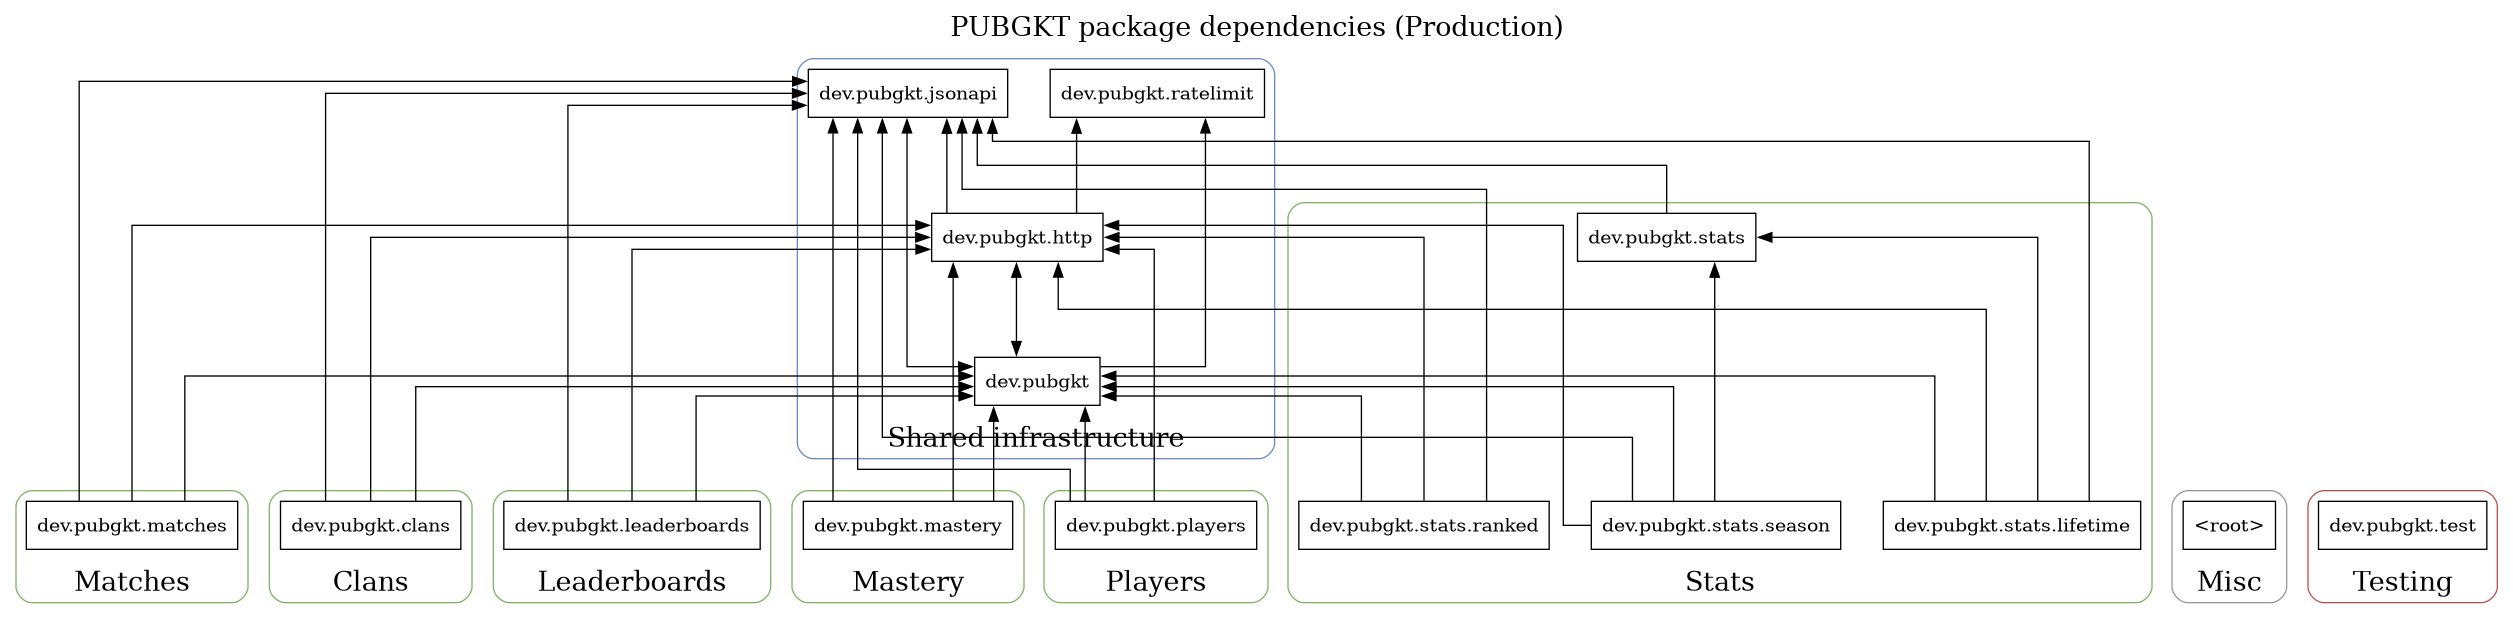
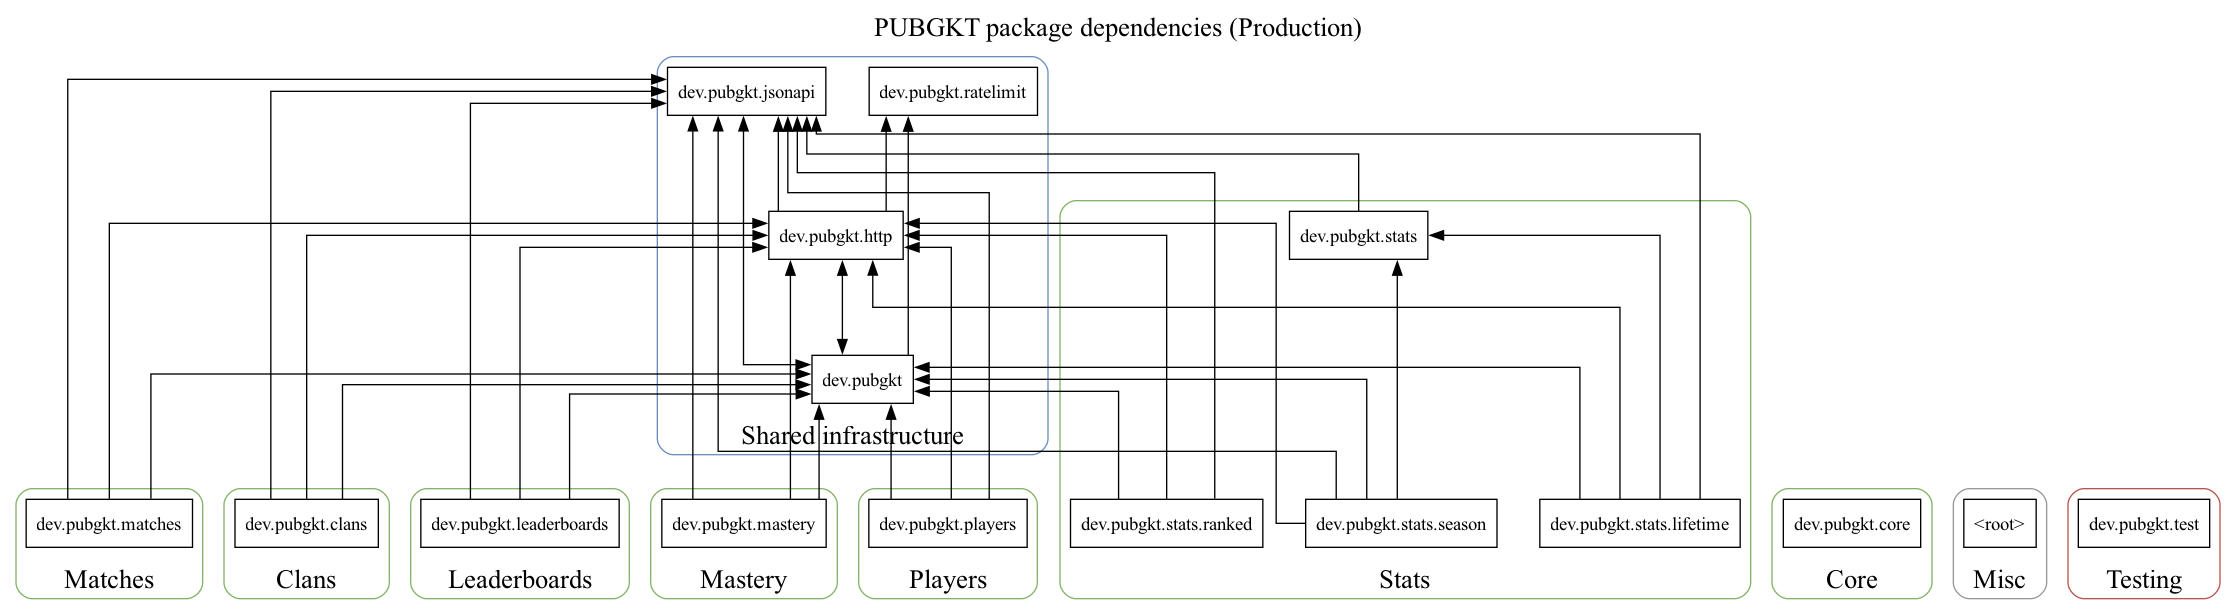
[skip ci] chore: Activates UnusedImport in detekt

diff --git a/stats/src/commonTest/kotlin/dev/pubgkt/stats/lifetime/GetLifetimeGameModeStatsTest.kt b/stats/src/commonTest/kotlin/dev/pubgkt/stats/lifetime/GetLifetimeGameModeStatsTest.kt
@@ -3,7 +3,6 @@ package dev.pubgkt.stats.lifetime
 import dev.pubgkt.GameMode
 import dev.pubgkt.PubgApi
 import dev.pubgkt.stats.FILTER_PLAYER_IDS
-import dev.pubgkt.stats.lifetime.getLifetimeStatsByGameModeAndPlayers
 import dev.pubgkt.test.lastRequest
 import dev.pubgkt.test.mockEngine
 import io.ktor.http.HttpMethod

diff --git a/stats/src/commonTest/kotlin/dev/pubgkt/stats/lifetime/GetLifetimePlayerStatsTest.kt b/stats/src/commonTest/kotlin/dev/pubgkt/stats/lifetime/GetLifetimePlayerStatsTest.kt
@@ -1,7 +1,6 @@
 package dev.pubgkt.stats.lifetime
 
 import dev.pubgkt.PubgApi
-import dev.pubgkt.stats.lifetime.getLifetimeStatsByAccountId
 import dev.pubgkt.test.lastRequest
 import dev.pubgkt.test.mockEngine
 import io.ktor.http.HttpMethod

diff --git a/stats/src/commonTest/kotlin/dev/pubgkt/stats/ranked/GetRankedStatsTest.kt b/stats/src/commonTest/kotlin/dev/pubgkt/stats/ranked/GetRankedStatsTest.kt
@@ -1,7 +1,6 @@
 package dev.pubgkt.stats.ranked
 
 import dev.pubgkt.PubgApi
-import dev.pubgkt.stats.ranked.getRankedStatsByAccountIdAndSeasonId
 import dev.pubgkt.test.lastRequest
 import dev.pubgkt.test.mockEngine
 import io.ktor.http.HttpMethod

diff --git a/stats/src/commonTest/kotlin/dev/pubgkt/stats/season/GetSeasonGameModeStatsTest.kt b/stats/src/commonTest/kotlin/dev/pubgkt/stats/season/GetSeasonGameModeStatsTest.kt
@@ -3,7 +3,6 @@ package dev.pubgkt.stats.season
 import dev.pubgkt.GameMode
 import dev.pubgkt.PubgApi
 import dev.pubgkt.stats.FILTER_PLAYER_IDS
-import dev.pubgkt.stats.season.getSeasonStatsByGameModeAndPlayers
 import dev.pubgkt.test.lastRequest
 import dev.pubgkt.test.mockEngine
 import io.ktor.http.HttpMethod

diff --git a/stats/src/commonTest/kotlin/dev/pubgkt/stats/season/GetSeasonPlayerStatsTest.kt b/stats/src/commonTest/kotlin/dev/pubgkt/stats/season/GetSeasonPlayerStatsTest.kt
@@ -1,7 +1,6 @@
 package dev.pubgkt.stats.season
 
 import dev.pubgkt.PubgApi
-import dev.pubgkt.stats.season.getSeasonStatsByAccountId
 import dev.pubgkt.test.lastRequest
 import dev.pubgkt.test.mockEngine
 import io.ktor.http.HttpMethod

diff --git a/samples/jvm/src/main/java/dev/pubgkt/LeaderboardsSample.java b/samples/jvm/src/main/java/dev/pubgkt/LeaderboardsSample.java
@@ -8,7 +8,6 @@ import kotlinx.coroutines.BuildersKt;
 import dev.pubgkt.leaderboards.GameMode;
 import dev.pubgkt.leaderboards.GetLeaderboardKt;
 import dev.pubgkt.leaderboards.Leaderboard;
-import dev.pubgkt.leaderboards.LeaderboardPlacement;
 
 public class LeaderboardsSample {
     public static void main(String[] args) throws InterruptedException {